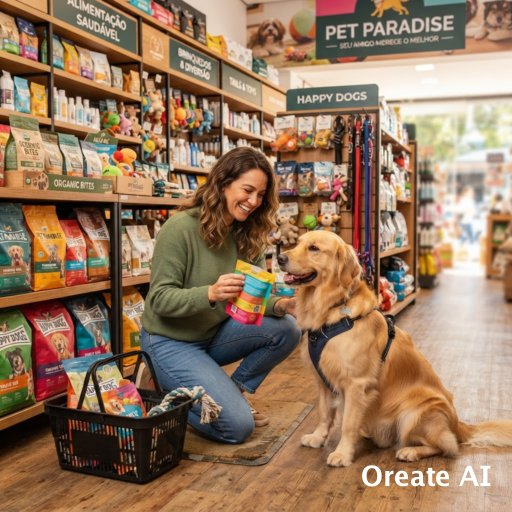
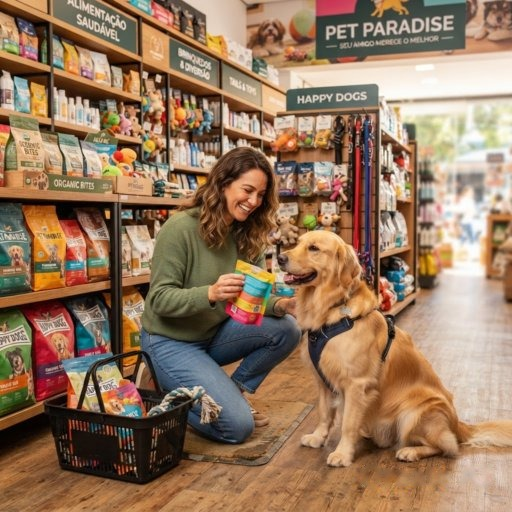
Imagens das páginas internas com proporção fixa e remoção da marca d'água das imagens

Changed region(s): [[0.6875, 0.9062, 0.9688, 0.9688]]

diff --git a/assets/css/style.css b/assets/css/style.css
@@ -1044,13 +1044,24 @@ padding: 14px 18px;
     object-fit: cover;
 }
 
-/* Cards de "Empresas em Destaque" na home: proporção fixa em vez de altura
-   fixa. Com 200-240px de altura a foto era cortada em cima/embaixo no
-   celular e dos lados em telas médias. Cards de pet e produto (que usam
+/* Capas dos cards de empresa/prestador (home, lista de empresas, clínicas,
+   hotelzinho, banho e tosa, pesquisa): proporção fixa em vez de altura fixa.
+   Com 180-240px de altura a foto era cortada em cima/embaixo no celular e
+   dos lados em telas médias. Cards de pet e produto (que usam
    object-fit: contain) ficam de fora. */
-#empresas-destaque .empresa-card img.card-img-top:not(.pet-card-img):not(.produto-card-img) {
+.empresa-card img.card-img-top:not(.pet-card-img):not(.produto-card-img) {
     height: auto;
     aspect-ratio: 4 / 3;
+    object-fit: cover;
+    object-position: center 30%;
+}
+
+/* Fotos da galeria de serviços (ex.: hotelzinho): quadradas, sem altura fixa. */
+.servico-galeria-img {
+    width: 100%;
+    height: auto;
+    aspect-ratio: 1 / 1;
+    object-fit: cover;
     object-position: center 30%;
 }
 

diff --git a/sw.js b/sw.js
@@ -13,7 +13,7 @@
  *   vem do escopo do service worker, então o arquivo é o mesmo nos dois.
  */
 
-const VERSION = "petfinder-v18";
+const VERSION = "petfinder-v19";
 const STATIC_CACHE = `${VERSION}-static`;
 const OFFLINE_URL = "offline.html";
 const BASE = new URL(self.registration.scope).pathname; // termina com "/"

diff --git a/index.html b/index.html
@@ -100,7 +100,7 @@
     <!-- CSS -->
     <!-- ========================= -->
 
-    <link rel="stylesheet" href="assets/css/style.css?v=20261028-empresas">
+    <link rel="stylesheet" href="assets/css/style.css?v=20261029-imagens">
 
 </head>
 

diff --git a/public/agendamentos/hotelzinho.php b/public/agendamentos/hotelzinho.php
@@ -37,7 +37,7 @@ function renderizarCardEmpresa(array $empresa, int $categoriaId): string
         <div class="col-lg-4 col-md-6">
             <div class="card empresa-card h-100 shadow-sm {$classeDestaque}">
                 <a href="{$perfilUrl}" class="position-relative">
-                    <img src="{$capa}" class="card-img-top" style="height:180px;object-fit:cover;" alt="{$nome}">
+                    <img src="{$capa}" class="card-img-top" alt="{$nome}">
                     {$seloDestaque}
                 </a>
                 <div class="card-body">
@@ -119,21 +119,18 @@ function renderizarCardEmpresa(array $empresa, int $categoriaId): string
 
             <div class="row g-4 mb-5 text-center">
                 <div class="col-md-4">
-                    <img src="../../assets/img/servicos/hotelzinho-suite.jpg" alt="Suíte do hotelzinho" class="rounded-3 mb-2"
-                        style="height:160px;width:100%;object-fit:cover;">
+                    <img src="../../assets/img/servicos/hotelzinho-suite.jpg" alt="Suíte do hotelzinho" class="rounded-3 mb-2 servico-galeria-img">
                     <h5>Suítes confortáveis</h5>
                     <p class="text-muted small">Espaços individuais e higienizados, pensados pro conforto do seu pet.
                     </p>
                 </div>
                 <div class="col-md-4">
-                    <img src="../../assets/img/servicos/hotelzinho-recreacao.jpg" alt="Área de recreação do hotelzinho" class="rounded-3 mb-2"
-                        style="height:160px;width:100%;object-fit:cover;">
+                    <img src="../../assets/img/servicos/hotelzinho-recreacao.jpg" alt="Área de recreação do hotelzinho" class="rounded-3 mb-2 servico-galeria-img">
                     <h5>Área de recreação</h5>
                     <p class="text-muted small">Espaço livre pra brincar e gastar energia com outros pets.</p>
                 </div>
                 <div class="col-md-4">
-                    <img src="../../assets/img/servicos/hotelzinho-suites.webp" alt="Hotelzinho com acompanhamento 24 horas" class="rounded-3 mb-2"
-                        style="height:160px;width:100%;object-fit:cover;">
+                    <img src="../../assets/img/servicos/hotelzinho-suites.webp" alt="Hotelzinho com acompanhamento 24 horas" class="rounded-3 mb-2 servico-galeria-img">
                     <h5>Acompanhamento 24h</h5>
                     <p class="text-muted small">Equipe disponível o dia inteiro pra cuidar de alimentação e bem-estar.
                     </p>

diff --git a/public/agendamentos/banho_e_tosa.php b/public/agendamentos/banho_e_tosa.php
@@ -37,7 +37,7 @@ function renderizarCardEmpresaBanhoTosa(array $empresa): string
         <div class="col-lg-4 col-md-6">
             <div class="card empresa-card h-100 shadow-sm {$classeDestaque}">
                 <a href="{$perfilUrl}" class="position-relative">
-                    <img src="{$capa}" class="card-img-top" style="height:180px;object-fit:cover;" alt="{$nome}">
+                    <img src="{$capa}" class="card-img-top" alt="{$nome}">
                     {$seloDestaque}
                 </a>
                 <div class="card-body">
@@ -123,8 +123,8 @@ function renderizarCardEmpresaBanhoTosa(array $empresa): string
                 </div>
 
                 <div class="col-lg-6">
-                    <img src="../../assets/img/servicos/higiene-cuidados.jpg" class="rounded-3 w-100"
-                        style="max-height:320px;object-fit:cover;" alt="Cuidados de higiene">
+                    <img src="../../assets/img/servicos/higiene-cuidados.jpg" class="rounded-3 img-fluid"
+                        alt="Cuidados de higiene">
                 </div>
 
             </div>

diff --git a/public/agendamentos/clinica_veterinaria.php b/public/agendamentos/clinica_veterinaria.php
@@ -38,7 +38,7 @@ function renderizarCardEmpresaClinica(array $empresa): string
         <div class="col-lg-4 col-md-6">
             <div class="card empresa-card h-100 shadow-sm {$classeDestaque}">
                 <a href="{$perfilUrl}" class="position-relative">
-                    <img src="{$capa}" class="card-img-top" style="height:180px;object-fit:cover;" alt="{$nome}">
+                    <img src="{$capa}" class="card-img-top" alt="{$nome}">
                     {$seloDestaque}
                 </a>
                 <div class="card-body">

diff --git a/public/agendamentos/prestadores.php b/public/agendamentos/prestadores.php
@@ -174,7 +174,6 @@ $tituloPagina = match ($tipo) {
 
                             <a href="prestador.php?id=<?= (int) $prestador['id'] ?>">
                                 <img src="<?= htmlspecialchars($foto) ?>" class="card-img-top"
-                                    style="height:220px; object-fit:cover;"
                                     alt="<?= htmlspecialchars($prestador['usuario_nome']) ?>">
                             </a>
 
